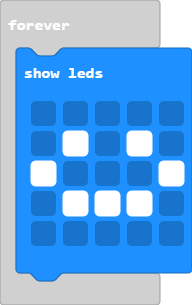
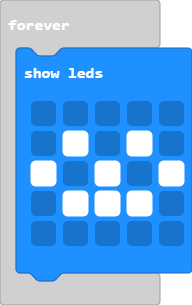
Main

Changed region(s): [[0.4688, 0.5016, 0.6562, 0.6197]]

diff --git a/main.ts b/main.ts
@@ -2,7 +2,7 @@ basic.forever(function () {
     basic.showLeds(`
         . . . . .
         . # . # .
-        # . . . #
+        # . # . #
         . # # # .
         . . . . .
         `)
